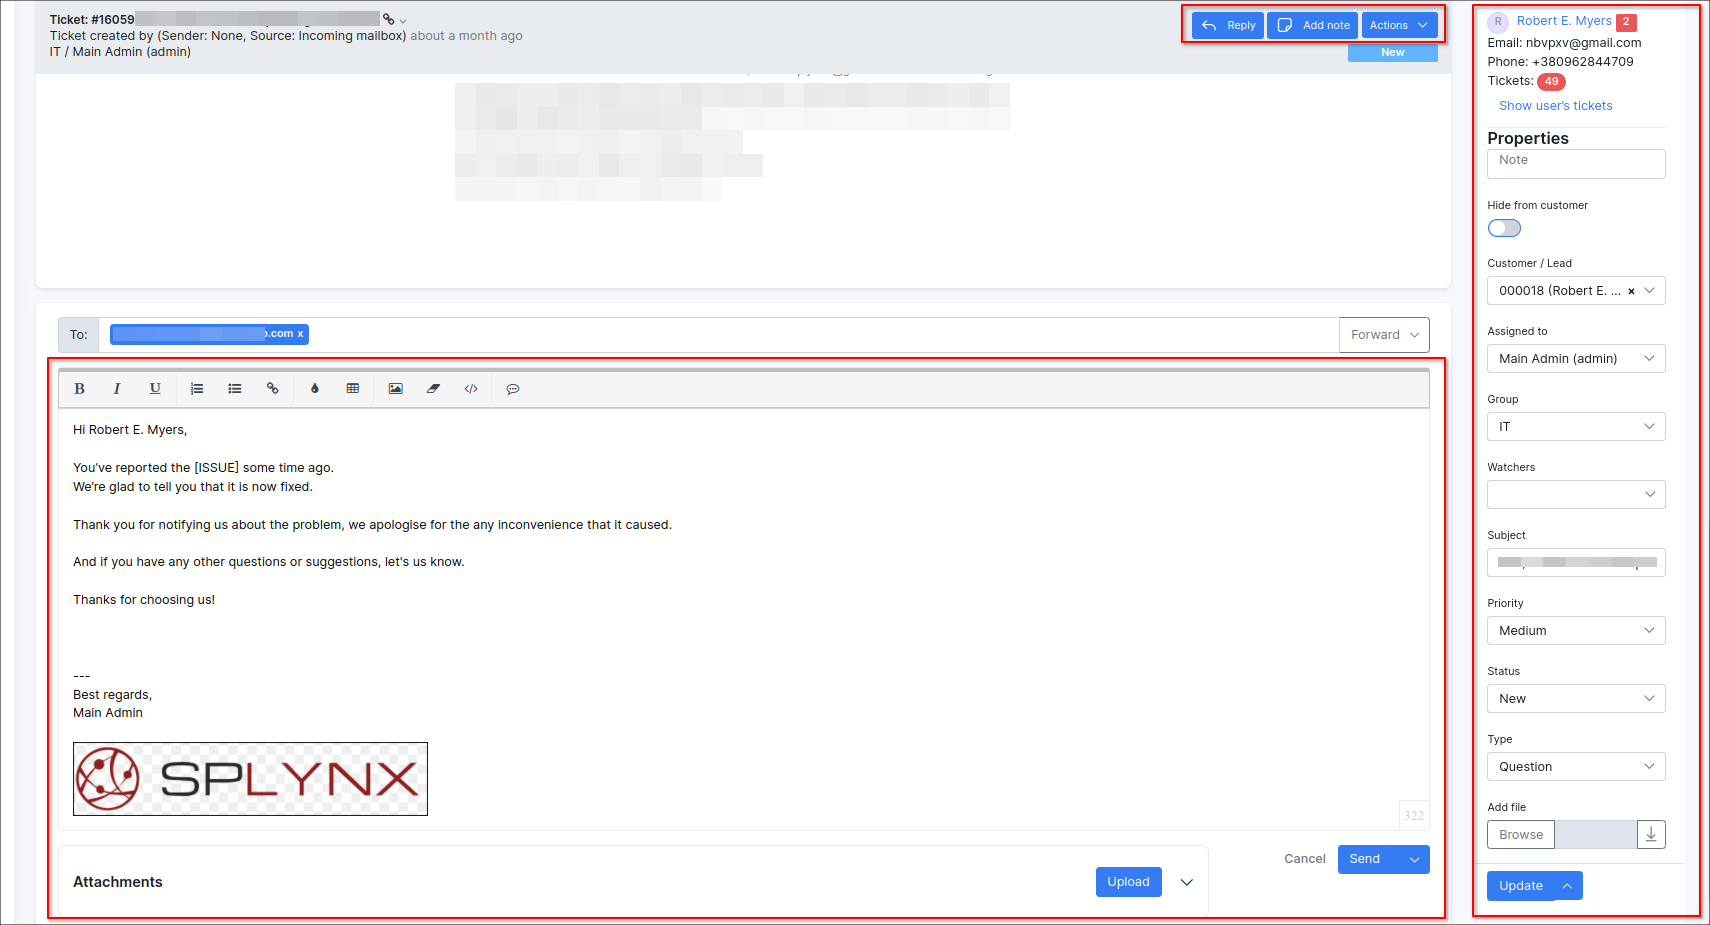
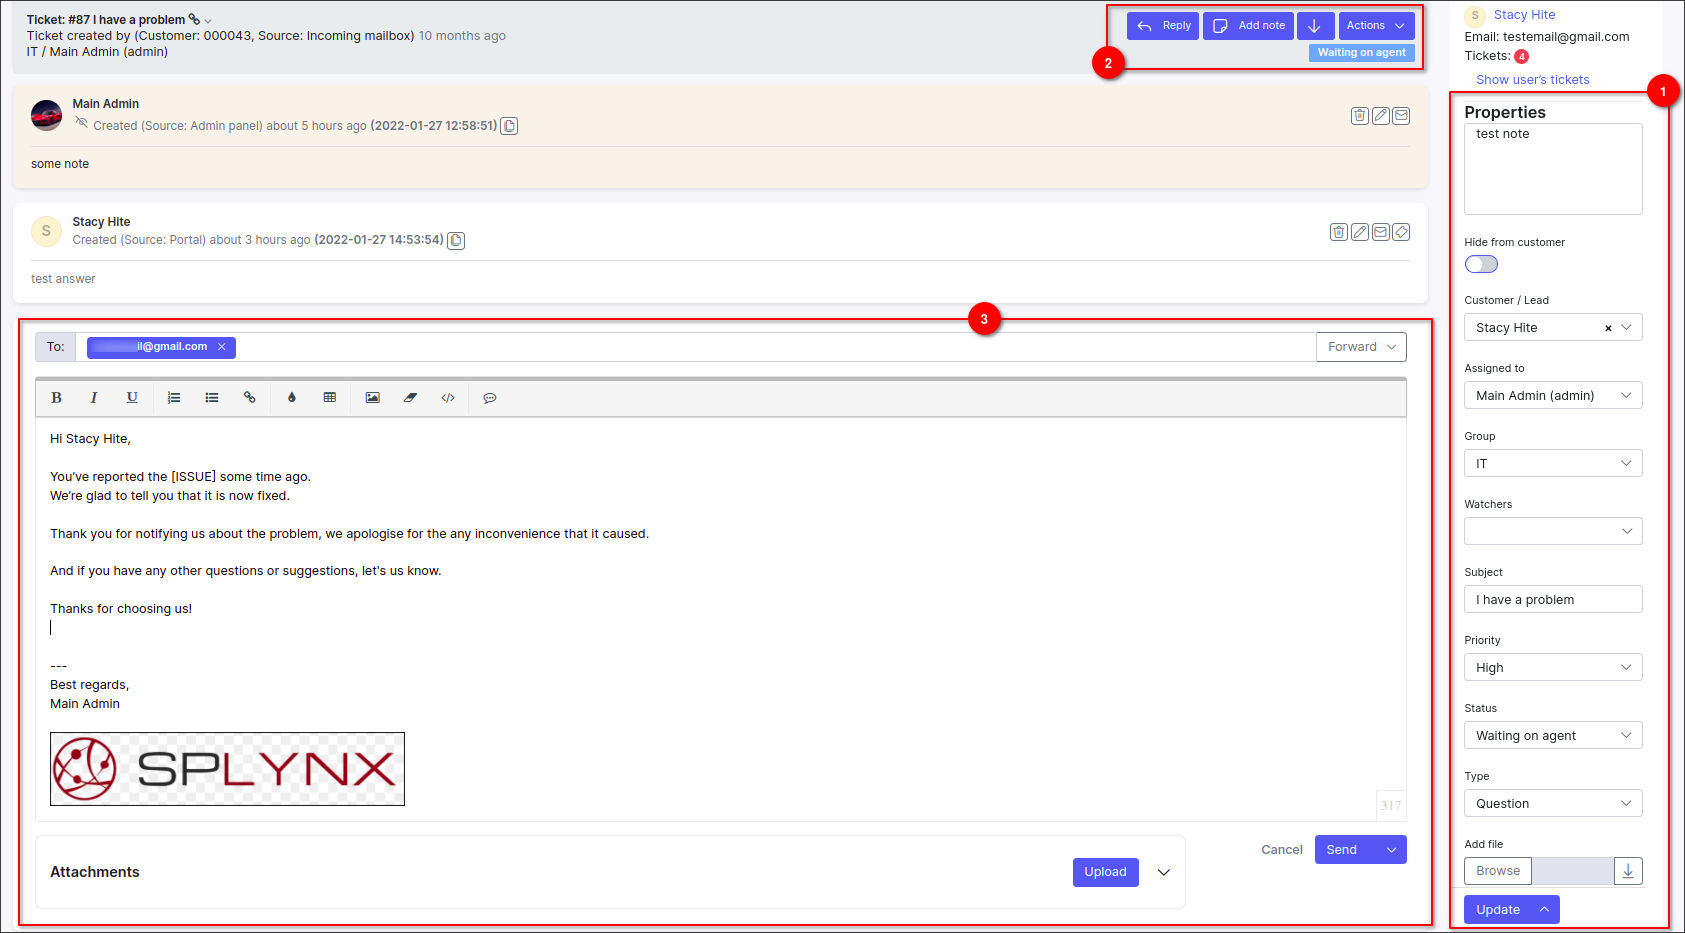
draft2

diff --git a/files/en/tickets/tickets_overview/tickets_overview.md b/files/en/tickets/tickets_overview/tickets_overview.md
@@ -81,65 +81,93 @@ Once the ticket has been created, it will be visible in the `List new & open` ta
 
 The list of tickets can be shown in two **layouts**: **table view** and **card view**. Use <icon class="image-icon">![image](change_layout.png)</icon> icon to change to your preferred layout.
 
-Use the mass **Actions** menu for selected ticket (-s) to reassign, change the status / priority, type of the ticket etc. directly from the tickets table.
+Use the mass **Actions** menu for selected ticket (-s) to reassign, change the status / priority, type of the ticket etc. directly from the tickets table. The available options in the drop-down list depend on the section that is currently opened.
 
 ![image](mass_actions1.png)
 
 ![image](mass_actions2.png)
 
+![image](mass_actions3.png)
+
+![image](mass_actions4.png)
+
+In addition, we can manage each ticket in the table with the available actions in the column with the same name:
+
+![image](actions_new_open.png)
+
+![image](actions_closed.png)
+
+![image](actions_archive.png)
+
+------------
+
 The ticket working area is divided into 3 parts:
 
-- ticket properties;
-- action buttons;
-- messages area.
+1. ticket properties;
+2. action buttons;
+3. messages area.
 
 ![Working area](ticket_workarea.png)
 
-In the properties we can reassign the ticket to the specific administrator, change status, change the priority, assign to a specific group, set the ticket type.  We also oversee the Customer's information like Name, Email, Phone number, and recent tickets.
+
+**Ticket properties section parameters:**
+
+* **Note** - area for entering a note that is not visible to the customer. This note is only visible in the sidebar;
+* **Hide from customer** - toggle to hide/show the ticket from the customer;
+* **Customer/Lead** - change the customer/list for whom the ticket was opened;
+* **Assigned to** - reassign the ticket to a specific administrator;
+* **Group** - change the group of ticket with which administrators are associated;
+* **Watchers** - add watchers to view all ticket activity;
+* **Subject** - change the subject of the ticket;
+* **Priority** - change the urgency of the ticket;
+* **Status** - change the current state of the ticket;
+* **Type** - change the reason for the ticket;
+* **Add file** - attach file to the ticket.
+
+The **Update** button is used to save changes made in the sidebar of the ticket properties. Note that the button has an additional function that allows you to save changes and change the status of the ticket at the same time.
+
+**Ticket action buttons:**
+
+![image](action_buttons.png)
+
+* **Reply** - used to respond to a message or add a message to a conversation, this button opens the message area for entering or inserting content from canned responses;
+* **Add note** - add a note to the ticket thread conversation, such note won't be visible for a customer, only to ticket's watchers or other administrators with a permission to view a ticket;
+* **Jump to last message** - scroll down to the last message in the ticket thread conversation;
+**Actions** drop-down menu:
+  * **Show activities** - show all activities related to the current ticket, including automatic change of ticket status by the system;
+  * **Show all files** - show all attached files in the ticket;
+  * **Create task** - create a new task for support team, all pre-written messages, including notes, will be quoted in the description of the new task;
+  * **Merge ticket** - merge one ticket into another ticket, e.g. you received two support requests about the same issue from the same customer;
+  * **Close ticket** - close the ticket, in new pop-up window the option `Close without notification` can be enabled;
+  * **Move to archive** - change the status of the ticket to resolved and move it to the Archive.  
+
+To **share a ticket** thread conversation with an agent who doesn't have a Splynx account, e.g. from another department in you company, you can enable **Public URl** for the ticket. Open the necessary ticket, next to its title click on a small arrow sign, a small pop-up window should appear, click on the **Public URl** toggle to enable the option, the direct link to the current ticket will be copied to the clipboard.
+
+![image](public_url.png)
+
+In addition, for each text block (message) of the ticket there are additional actions:
+
+![image](additional_actions.png)
+
+* **Edit message** - each message in the thread of ticket can be edited by the administrator;
+* **Send message to email** - send a separate message from the ticket thread to the email, a message text will be quoted;
+* **Delete message** - remove separate message from the ticket;
+* **Split ticket** - opens the form to create a new ticket with the quoted response of the client in the message area.
 
 
+**Ticket message area**
 
+* **Forward** - this button opens the `Cc` and `Bcc` fields for forwarding the response as well as ticket content to another email address(s);
+* **Send** - send a response to the customer, an additional feature allows you to respond and change the status of the ticket at the same time;
+* **Upload** - used to attach file (-s) to the ticket.
 
+------------
 
+Once the issue reported in the ticket is resolved, click on the small arrow next to the **Update** button to open more options, click on **Update and close** item to close the current ticket, its status will be set to `Resolved` and the ticket will be moved to `Tickets → List of closed` section.
 
+![image](update_button.png)
 
-
-
-
-
-## Ticket properties section parameters:
-
-* **Customer/Lead** -  changes the customer this ticket has been open for
-* **Assigned to** - reassign the ticket to a specific administrator
-* **Subject** -  change the subject of the ticket
-* **Priority** - change the urgency of the ticket
-* **Status** - change the current state of the ticket
-* **Group** - change the group of administrators this ticket is available to
-* **Type** - change the reason for the tickets
-* _Show more options_ - this option will either hide or display additional fields of tickets
-
-* The action buttons allow us to add a note, reply or forward the answer, check all ticket activities and schedule the task for an engineer directly within the ticket.
-
-## Tickets actions section parameters:
-
-* **Reply** - used to respond to a message or add a message to the conversation, this button opens up the body area of the message for you to type or insert content from canned responses.
-* **Add note** - this button opens a typing area to add a note to the ticket that is not visible to the customers
-* **Forward** - this button opens the "Cc" and "Bcc" fields for forwarding the response as well as ticket content to another email address(s)
-* **Actions** - this is a drop-down list of functions namely:
-_Show Activities_ - to view all activities executed to/within the ticket
-_Show all files_ - provides a list of all attachments within the ticket
-_Create task_ -  integration to the scheduling module, this button allows you to create a task pertaining to requests made within the ticket
-_Merge ticket_ - allows the merging of the current ticket with another
-_Close ticket_ - marks ticket status as resolved and the ticket is moved into the list of closed tickets
-
-Below is a quick look at the task creation page after clicking the create task option
-
-![Schedule tech](schedule_task.png)
-
-
-Once a ticket has been resolved, you can change the status on *closed* and close the ticket or press the **Update and Close** option of the update button immediately after adding a response to the ticket. All closed tickets are shown in `Tickets → List of closed`.
-
-![List closed](closed_list.png)
+![image](resolved_ticket.png)
 
 ------
 
@@ -147,27 +175,45 @@ Once a ticket has been resolved, you can change the status on *closed* and close
 
 Your customers can also create tickets in three ways:
 
-1. By sending a query to your incoming email (*support@yourdomain.com*), and the ticket will be created automatically on the system. Incoming mail configuration can be found [here](configuration/main_configuration/incoming_mail.md).
+1. By sending a query to your **incoming email** (*support@yourdomain.com*), and the ticket will be created automatically in the system. Suggested read: [how to configure your Inboxes](configuration/main_configuration/incoming_mail.md).
 
-2. By creating a ticket from Customers Portal in `Tickets → Create`
+2. By creating a ticket on Customers [Portal](customer_portal/customer_portal.md) in `Tickets → Create ticket`
 
 ![Tickets portal](portal_ticket.png)
 
-* **Subject** -  a relevant subject of the ticket, usually pertaining to the reason for opening the ticket
-* **Priority** - the urgency of the ticket which can be set to low, medium, high or urgent
-* **Message** - the body of the ticket can be typed here
-* **Attachments** - used to attach files to the ticket
+* **Subject** -  a relevant subject of the ticket, usually pertaining to the reason for opening the ticket;
+* **Priority** - the urgency of the ticket which can be set to low, medium, high or urgent;
+* **Type** - the reason for creating the ticket which can be set to `Question`, `Incident`, `Problem`, `Feature request` or `Lead`.;
+* **Message** - the main text body of the ticket;
+* **Attachments** - used to attach files to the ticket.
 
-Once the ticket is created it is possible to view or close it by using the following icons <icon class="image-icon"→![Add](icons.png)</icon→ within the tbale/list of new & opened tickets:
+Once the ticket is created it is possible to **view** or **close** it by using the following icons <icon class="image-icon"→![Add](icons.png)</icon within the table/list of opened tickets:
 
 ![Tickets portal](portal_list_of_tickets.png)
 
-3. By creating a ticket from Splynx mobile self-service app.
+3. By creating a ticket from mobile app - SPLYNX - [Customer Application](apps/customer_app/customer_app.md).
 
 ![Tickets mobile app](app_ticket.jpg)
 
-There are a number of elements that can be automated within the ticketing module to improve efficiency and speed up engagement. These automation rules can be set up under `Config / Support / Ticket automation`
-More information about **tickets configuration** can be found here - [Support](configuration/support/support.md).
+------
+
+More information how to automate your work with tickets and its additional settings, you can find the the next tutorials:
+
+- [Ticket automation](configuration/support/ticket_automation/ticket_automation.md);
+
+- [Helpdesk](configuration/support/support.md).
+
+
+
+
+
+
+
+
+
+
+
+
 
 When tickets are opened by either the customer or administrator, notifications are sent to each other via email. Depending on the template you are using for tickets, tickets may include the body of the ticket and this can ultimately create convenience, as customers/administrators can respond directly from the email to respond to the ticket. If the template does not include the body, customers/administrators are able to log into their respective portals by means of a link included in the ticket notifications.
 
